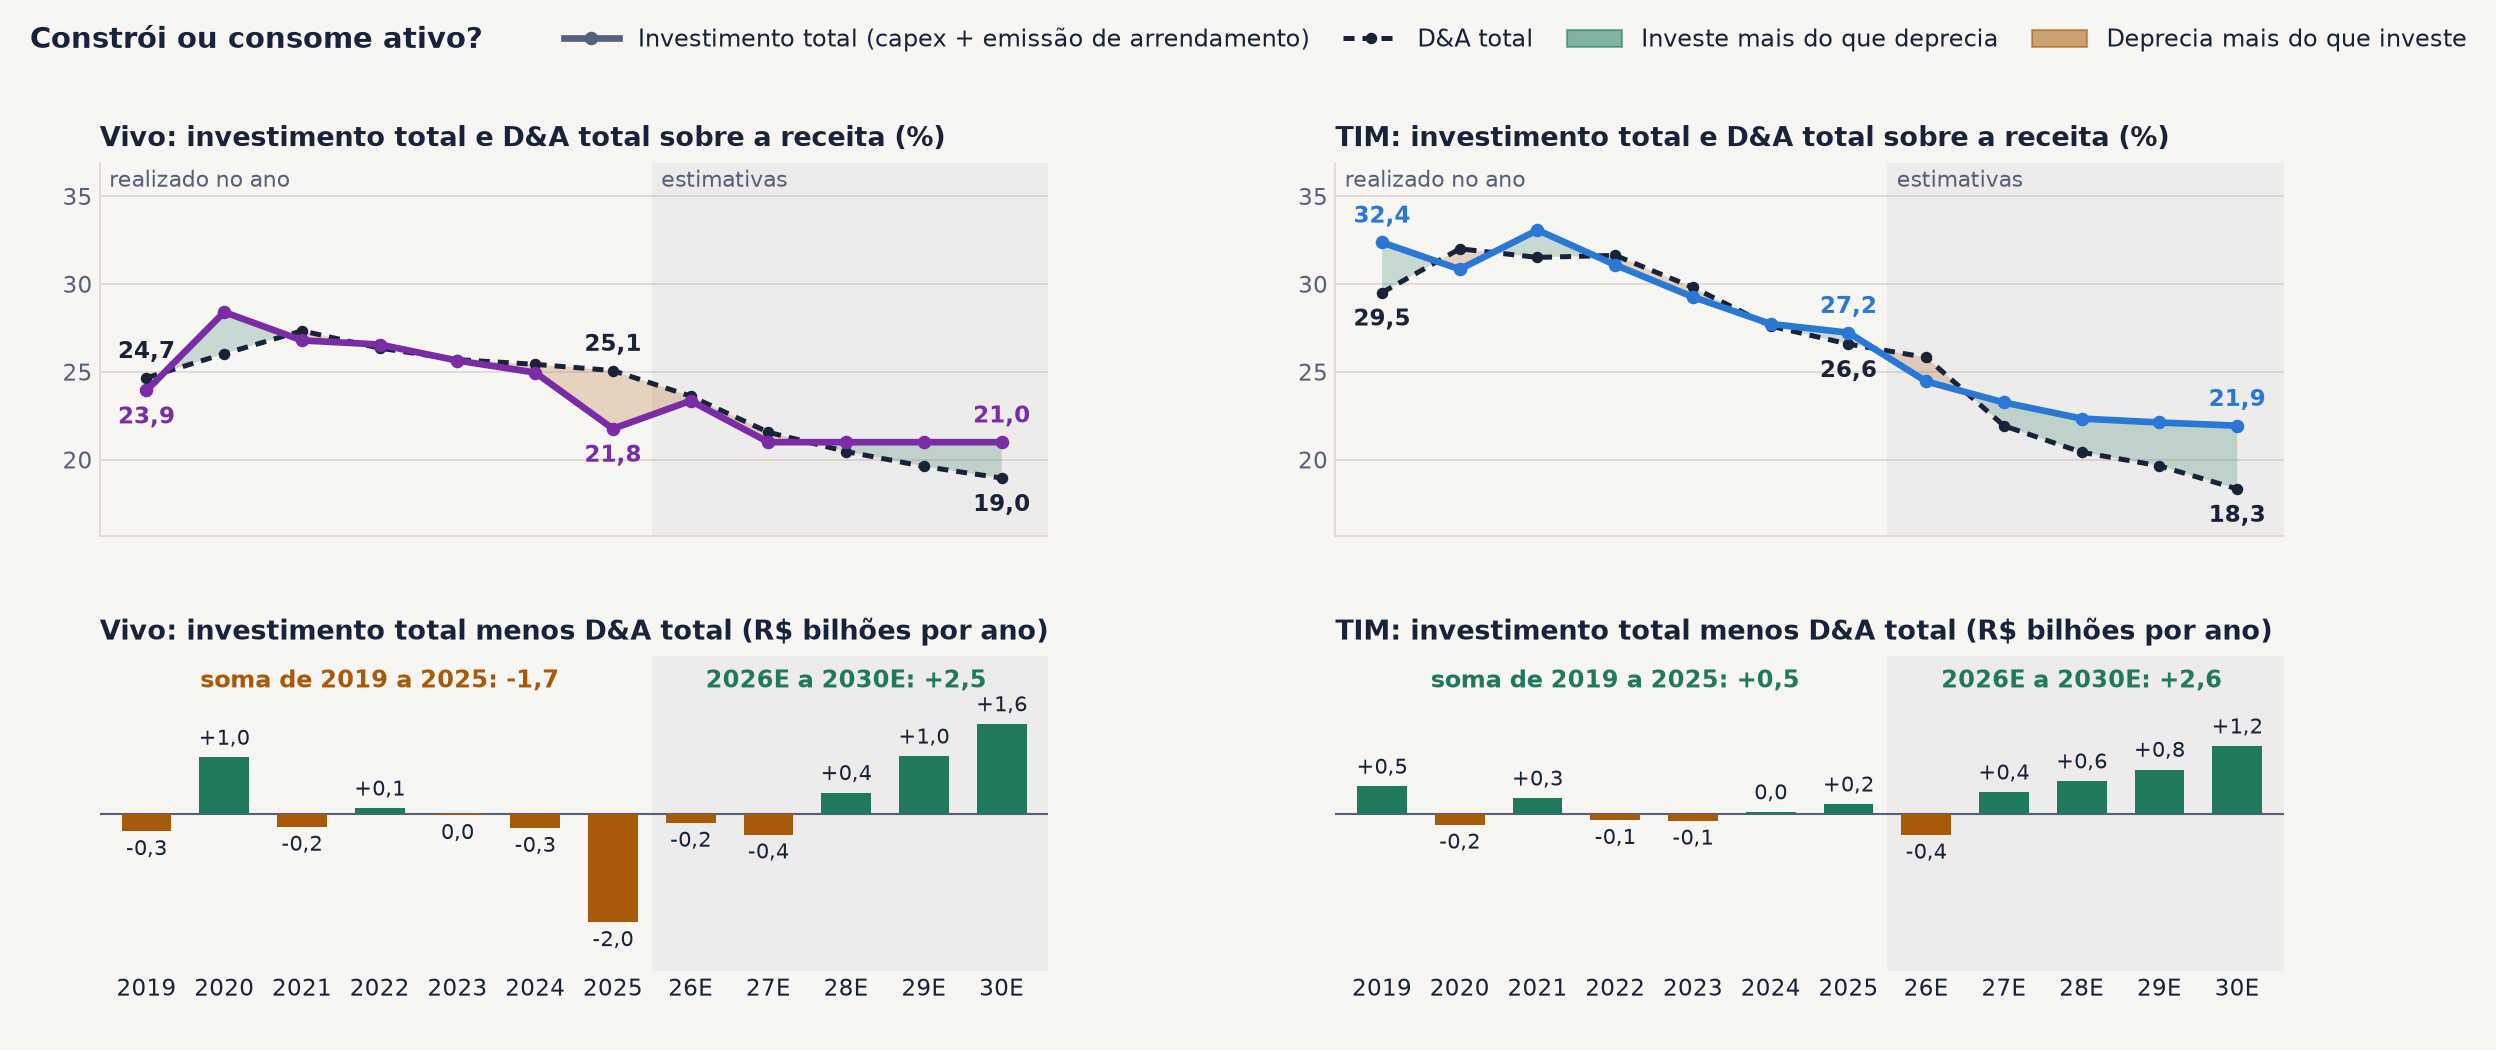
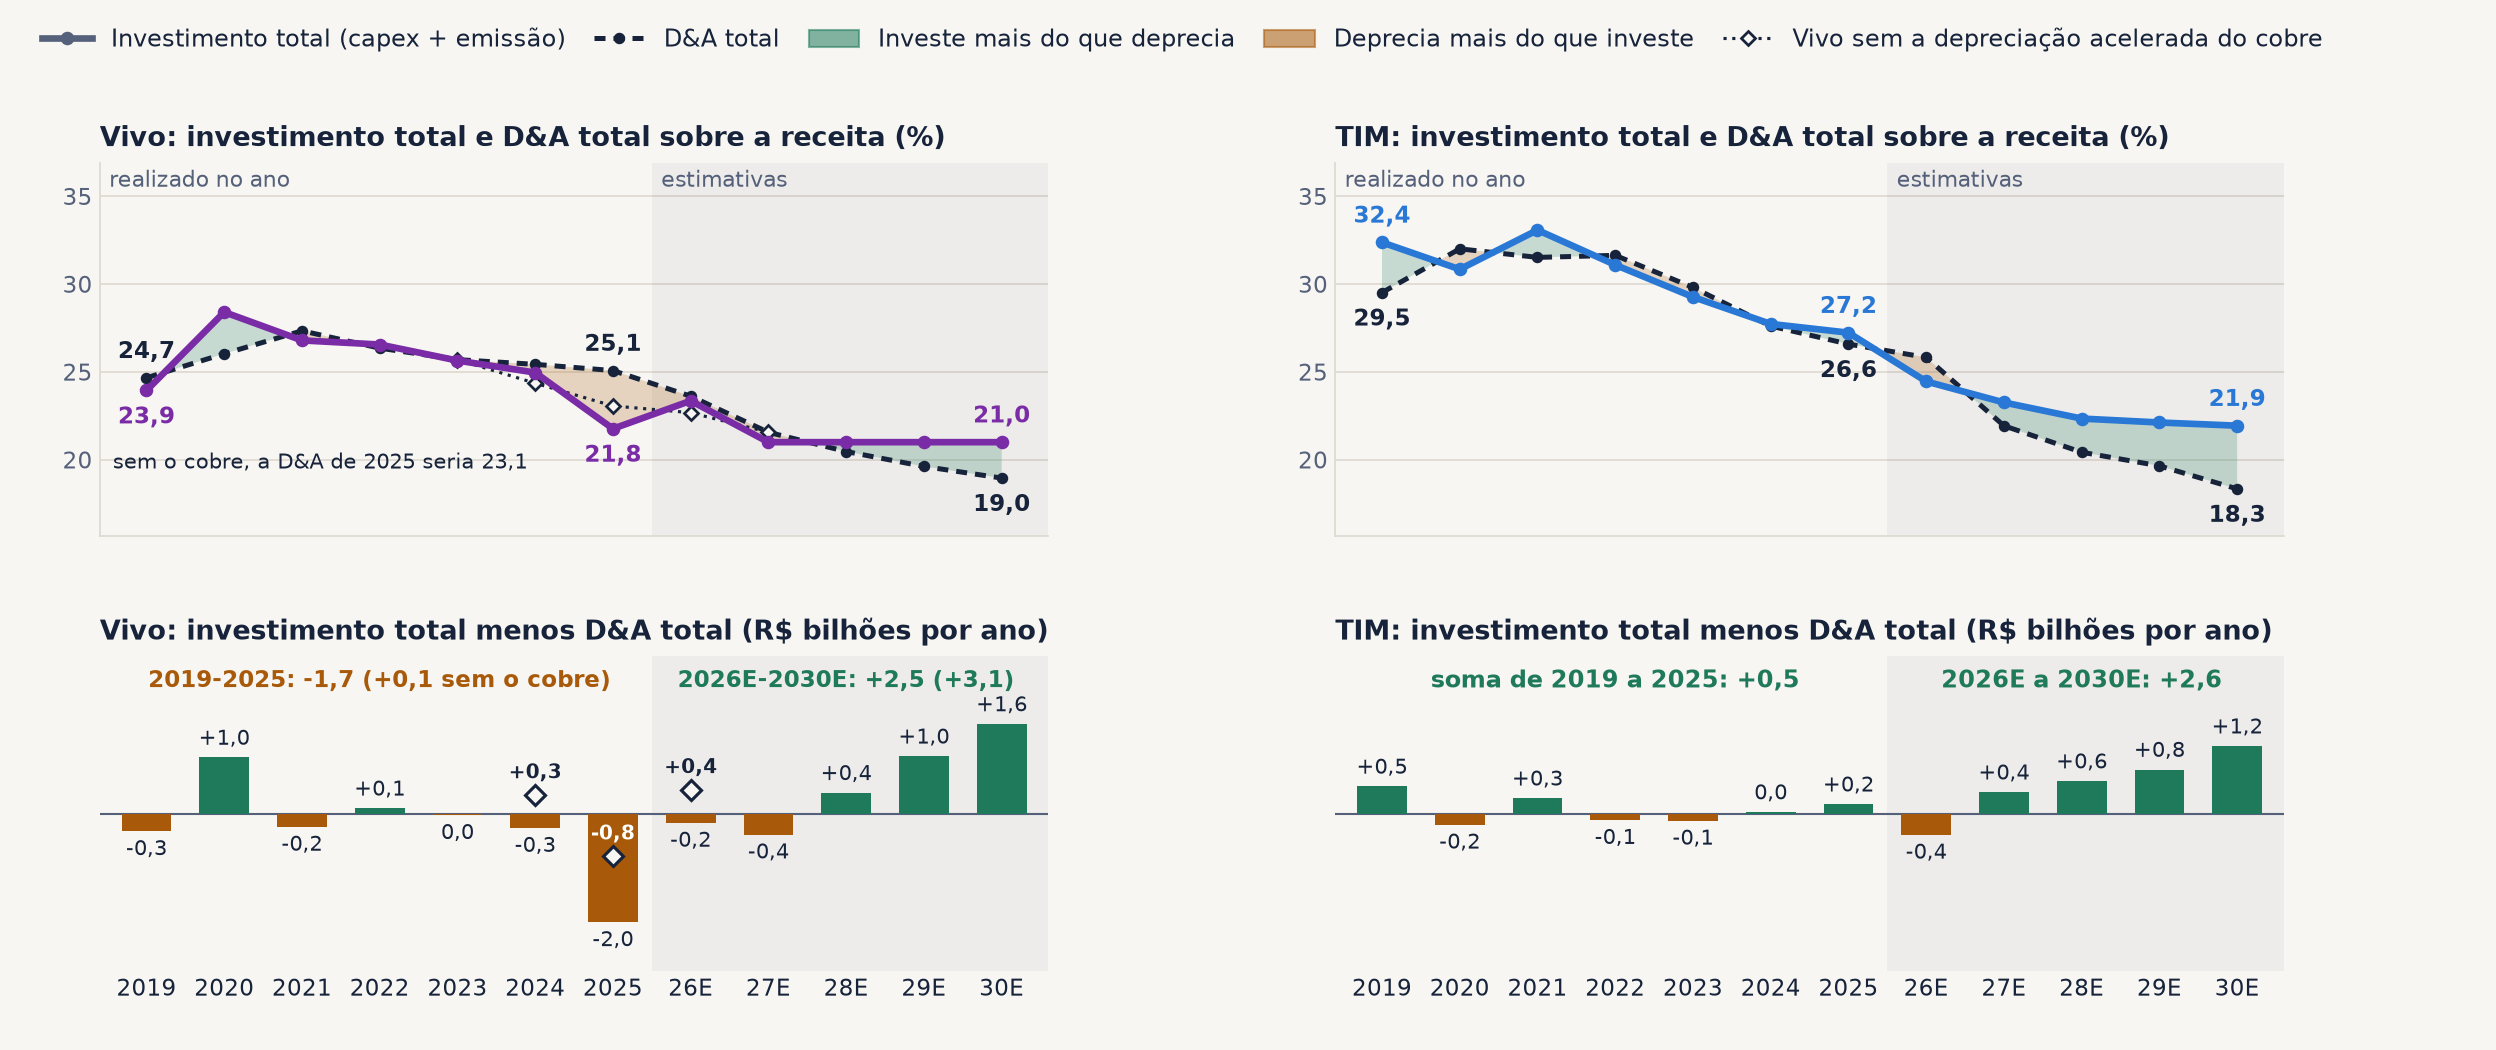
v5.5 - 24/11/2026 22:40 - slide 14: depreciacao acelerada do cobre da Vivo
Losangos e linha pontilhada mostram a Vivo sem a depreciacao acelerada de
tecnologias legadas (cerca de R$ 0,3 bi por trimestre do 3T24 ao 2T26).

diff --git a/index.html b/index.html
@@ -40,7 +40,7 @@ h1, h2, h3 { font-family:'Space Grotesk', Arial, sans-serif; }
 <div id="palco">
 <section id="capa" class="capa" data-transition="fade">
 <div>
-<p class="chip">v5.4 · 24/11/2026 22:36</p>
+<p class="chip">v5.5 · 24/11/2026 22:40</p>
 </div>
 <div>
 <h1>Telecom Brasil: Vivo e TIM</h1>
@@ -134,10 +134,10 @@ h1, h2, h3 { font-family:'Space Grotesk', Arial, sans-serif; }
 </section>
 <section id="da-capex" data-transition="fade">
 <p class="olho">4 · INVESTIMENTO TOTAL CONTRA DEPRECIAÇÃO TOTAL</p>
-<h2 class="titulo">Investimento empata com a depreciação desde 2019 (Vivo -R$ 1,7 bi, TIM +R$ 0,5 bi em sete anos); no modelo as duas somam +R$ 2,5 bi de 2026E a 2030E</h2>
-<img class="graf" src="img/v9b_da_capex.png" alt="Quatro gráficos de 2019 a 2030 estimado, Vivo e TIM na mesma escala. Em cima, o investimento total (capex mais emissão de arrendamento) e a depreciação e amortização total sobre a receita líquida, com a área entre as linhas em verde quando o investimento é maior e em ocre quando a depreciação é maior. Embaixo, a diferença em bilhões de reais por ano, em barras, com a soma de 2019 a 2025 e de 2026 a 2030">
+<h2 class="titulo">Investimento empata com a depreciação desde 2019: Vivo -R$ 1,7 bi em sete anos (+R$ 0,1 bi sem a depreciação acelerada do cobre) e TIM +R$ 0,5 bi</h2>
+<img class="graf" src="img/v9b_da_capex.png" alt="Quatro gráficos de 2019 a 2030 estimado, Vivo e TIM na mesma escala. Em cima, o investimento total (capex mais emissão de arrendamento) e a depreciação e amortização total sobre a receita líquida, com a área entre as linhas em verde quando o investimento é maior e em ocre quando a depreciação é maior. Embaixo, a diferença em bilhões de reais por ano, em barras, com a soma de 2019 a 2025 e de 2026 a 2030; na Vivo, losangos marcam a diferença sem a depreciação acelerada do cobre em 2024, 2025 e 2026">
 <p class="fonte">Fonte: planilhas de RI e modelos de 24/11/2026. Investimento total = capex sem licenças + emissão de arrendamento. D&amp;A total inclui a amortização de licenças (Vivo: R$ 0,9 a 1,5 bilhão por ano), o que pesa contra o investimento.</p>
-<aside>Pergunta do slide: as companhias constroem ou consomem o ativo (imobilizado mais direito de uso)? A conta compara o que entra, capex sem licenças mais emissão de arrendamento, com o que sai pela depreciação e amortização total; as duas medidas são de competência. O arrendamento pago não entra aqui: ele reduz o passivo, não o ativo, e a sua contrapartida contábil, a depreciação do direito de uso, já está na D&amp;A. Vivo, investimento menos D&amp;A em R$ bilhões: -0,3 em 2019, +1,0 em 2020, -0,2 em 2021, +0,1 em 2022, zero em 2023, -0,3 em 2024 e -2,0 em 2025, soma de -1,7 em sete anos; a relação D&amp;A sobre investimento fica entre 0,92 e 1,03 de 2019 a 2024 e vai a 1,15 em 2025, ano de emissão baixa e de depreciação acelerada do cobre. Modelo: -0,2 em 2026E, -0,4 em 2027E, +0,4 em 2028E, +1,0 em 2029E e +1,6 em 2030E, soma de +2,5. TIM: +0,5 em 2019, -0,2 em 2020, +0,3 em 2021, -0,1 em 2022 e em 2023, zero em 2024 e +0,2 em 2025, soma de +0,5; relação entre 0,91 e 1,04. Modelo: -0,4 em 2026E, +0,4 em 2027E, +0,6 em 2028E, +0,8 em 2029E e +1,2 em 2030E, soma de +2,6. Leitura do realizado: empate, nem constroem nem consomem em reais nominais; com a inflação do período, a base encolhe em termos reais. No balanço da Vivo, imobilizado mais direito de uso vai de R$ 42,8 bilhões em 2019 para R$ 47,4 bilhões em 2025, alta nominal de 11% em seis anos. Leitura do modelo: as duas passam a construir ativo com o investimento caindo sobre a receita, porque a D&amp;A cai mais rápido (Vivo de 25,1% para 19,0% da receita; TIM de 26,6% para 18,3%). Na Vivo parte disso é o fim da depreciação acelerada do cobre; na TIM a D&amp;A do modelo fica abaixo de todas as casas de 2027E em diante. Ressalvas: a D&amp;A inclui a amortização de licenças e o investimento não inclui as licenças compradas; tirando a amortização de licenças da Vivo (R$ 8,4 bilhões de 2019 a 2025), a soma do período passa de -R$ 1,7 bilhão para +R$ 6,7 bilhões. A abertura equivalente da TIM não está no modelo. A emissão de arrendamento mistura contrato novo com renovação e reajuste.</aside>
+<aside>Pergunta do slide: as companhias constroem ou consomem o ativo (imobilizado mais direito de uso)? A conta compara o que entra, capex sem licenças mais emissão de arrendamento, com o que sai pela depreciação e amortização total; as duas medidas são de competência. O arrendamento pago não entra aqui: ele reduz o passivo, não o ativo, e a sua contrapartida contábil, a depreciação do direito de uso, já está na D&amp;A. Vivo, investimento menos D&amp;A em R$ bilhões: -0,3 em 2019, +1,0 em 2020, -0,2 em 2021, +0,1 em 2022, zero em 2023, -0,3 em 2024 e -2,0 em 2025, soma de -1,7 em sete anos; a relação D&amp;A sobre investimento fica entre 0,92 e 1,03 de 2019 a 2024 e vai a 1,15 em 2025, ano de emissão baixa e de depreciação acelerada do cobre. Modelo: -0,2 em 2026E, -0,4 em 2027E, +0,4 em 2028E, +1,0 em 2029E e +1,6 em 2030E, soma de +2,5. Cobre: a Vivo depreciou de forma acelerada as tecnologias legadas, incluindo os ativos de cobre, do 3T24 ao 2T26, com impacto aproximado de R$ 0,3 bilhão por trimestre (release do 2T26), ou R$ 0,6 bilhão em 2024, R$ 1,2 bilhão em 2025 e R$ 0,6 bilhão em 2026, R$ 2,4 bilhões no total. Sem isso a D&amp;A seria 24,4% da receita em 2024 (contra 25,4%), 23,1% em 2025 (contra 25,1%) e 22,7% em 2026E (contra 23,6%), e a diferença entre investimento e depreciação seria +0,3 em 2024, -0,8 em 2025 e +0,4 em 2026E; a soma de 2019 a 2025 passa de -1,7 para +0,1 e a de 2026E a 2030E de +2,5 para +3,1. O cobre explica R$ 1,2 bilhão dos R$ 2,0 bilhões de 2025; o resto é a emissão de arrendamento mais baixa do ano. TIM: +0,5 em 2019, -0,2 em 2020, +0,3 em 2021, -0,1 em 2022 e em 2023, zero em 2024 e +0,2 em 2025, soma de +0,5; relação entre 0,91 e 1,04. Modelo: -0,4 em 2026E, +0,4 em 2027E, +0,6 em 2028E, +0,8 em 2029E e +1,2 em 2030E, soma de +2,6. Leitura do realizado: empate, nem constroem nem consomem em reais nominais; com a inflação do período, a base encolhe em termos reais. No balanço da Vivo, imobilizado mais direito de uso vai de R$ 42,8 bilhões em 2019 para R$ 47,4 bilhões em 2025, alta nominal de 11% em seis anos. Leitura do modelo: as duas passam a construir ativo com o investimento caindo sobre a receita, porque a D&amp;A cai mais rápido (Vivo de 25,1% para 19,0% da receita; TIM de 26,6% para 18,3%). Na Vivo parte disso é o fim da depreciação acelerada do cobre; na TIM a D&amp;A do modelo fica abaixo de todas as casas de 2027E em diante. Ressalvas: a D&amp;A inclui a amortização de licenças e o investimento não inclui as licenças compradas; tirando a amortização de licenças da Vivo (R$ 8,4 bilhões de 2019 a 2025), a soma do período passa de -R$ 1,7 bilhão para +R$ 6,7 bilhões. A abertura equivalente da TIM não está no modelo. A emissão de arrendamento mistura contrato novo com renovação e reajuste.</aside>
 </section>
 <section id="lucro-frente" data-transition="fade">
 <p class="olho">5 · LUCRO LÍQUIDO PARA FRENTE</p>

diff --git a/README.md b/README.md
@@ -1,3 +1,3 @@
 # Telecom Brasil: Vivo e TIM
 
-Deck de telecom (v5.4 · 24/11/2026 22:36): o setor contra a inflação e o PIB, receita, margem, EBITDA, capex e arrendamento, lucro, payout, Fistel e valuation de Vivo e TIM.
+Deck de telecom (v5.5 · 24/11/2026 22:40): o setor contra a inflação e o PIB, receita, margem, EBITDA, capex e arrendamento, lucro, payout, Fistel e valuation de Vivo e TIM.
